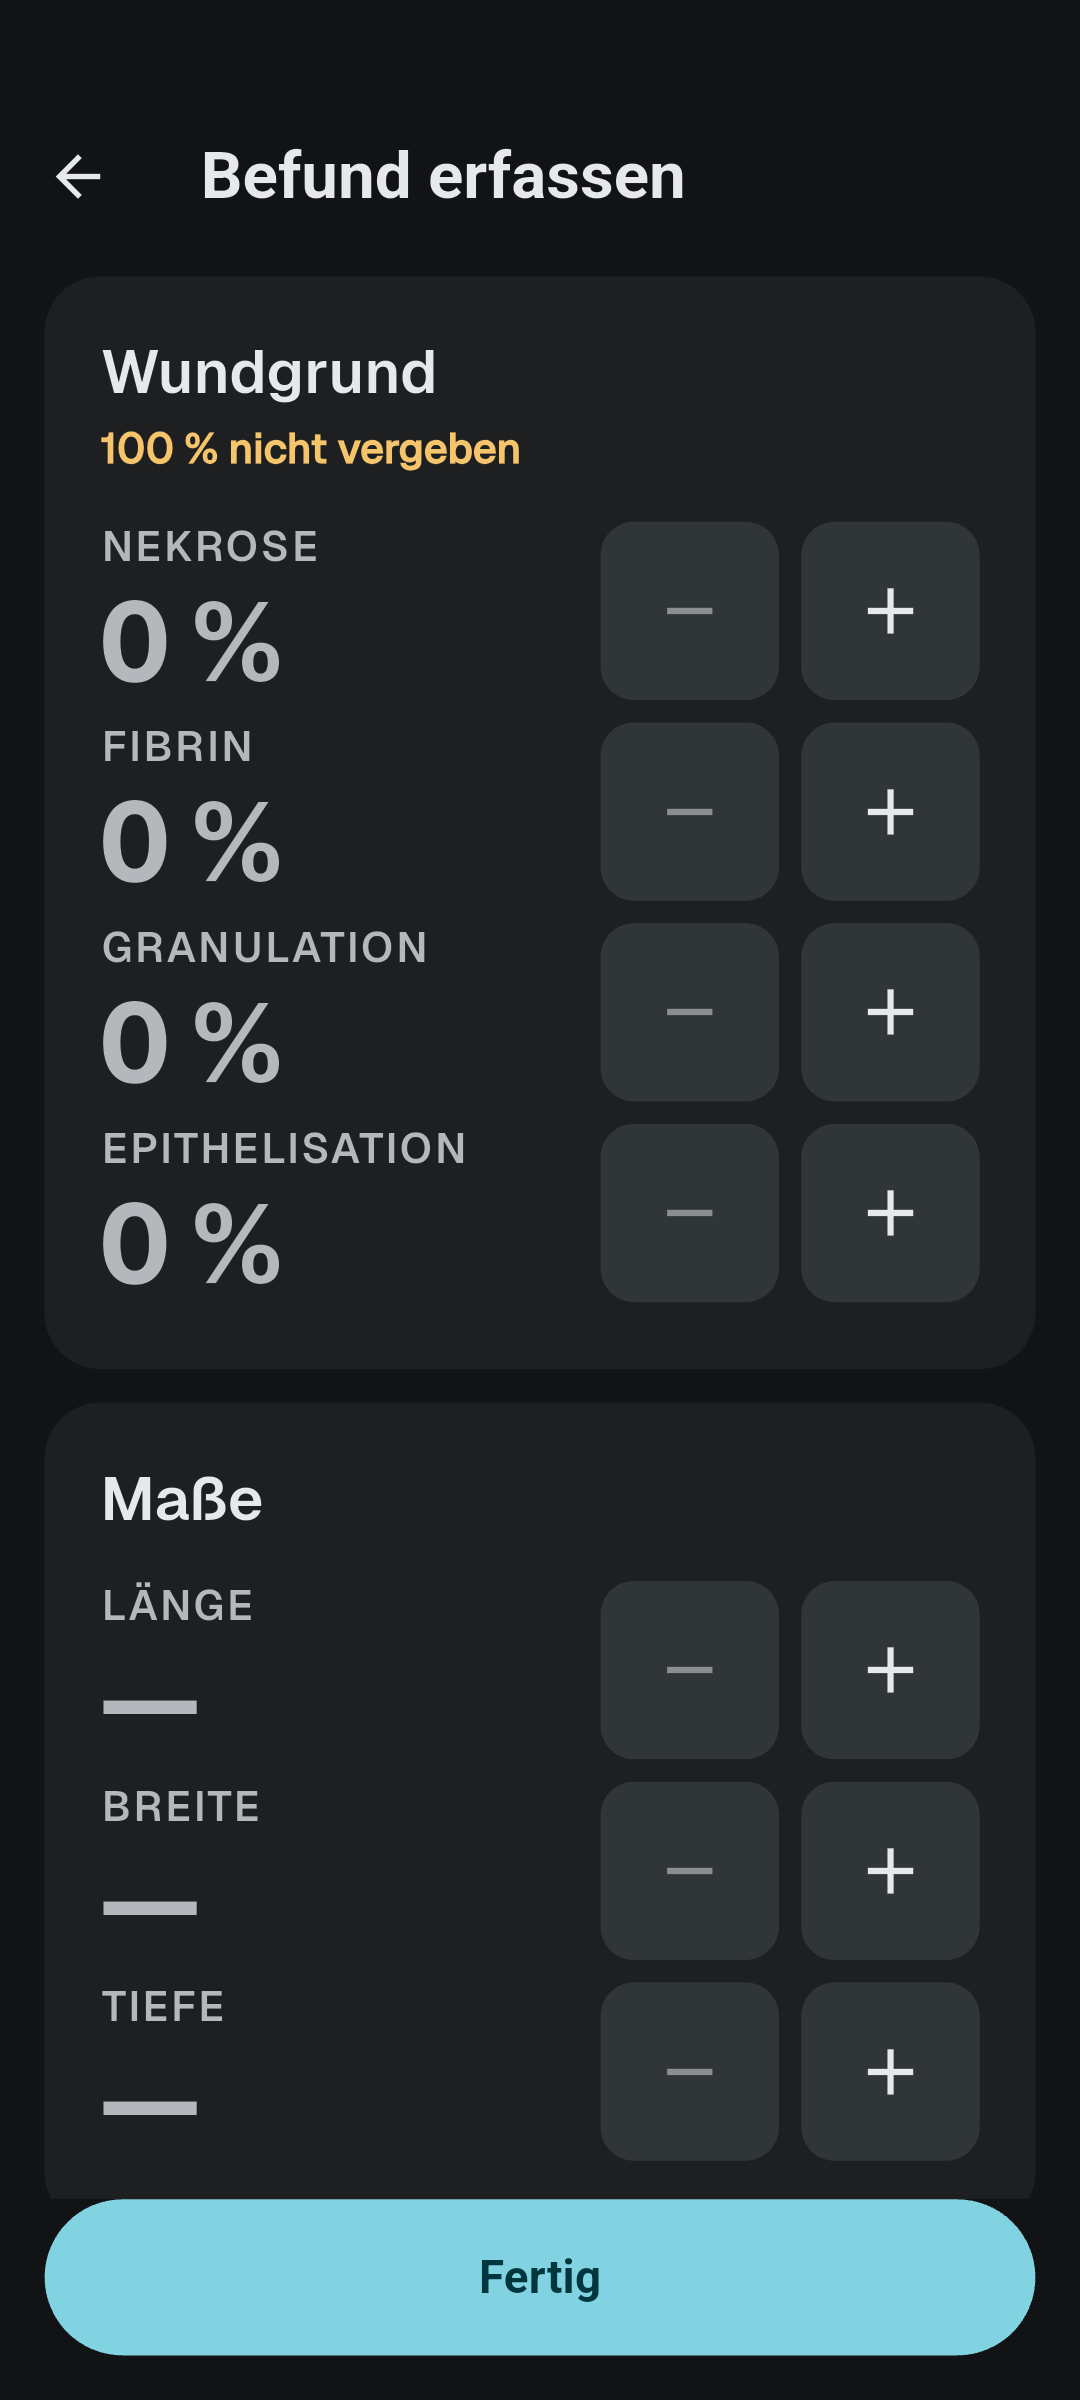
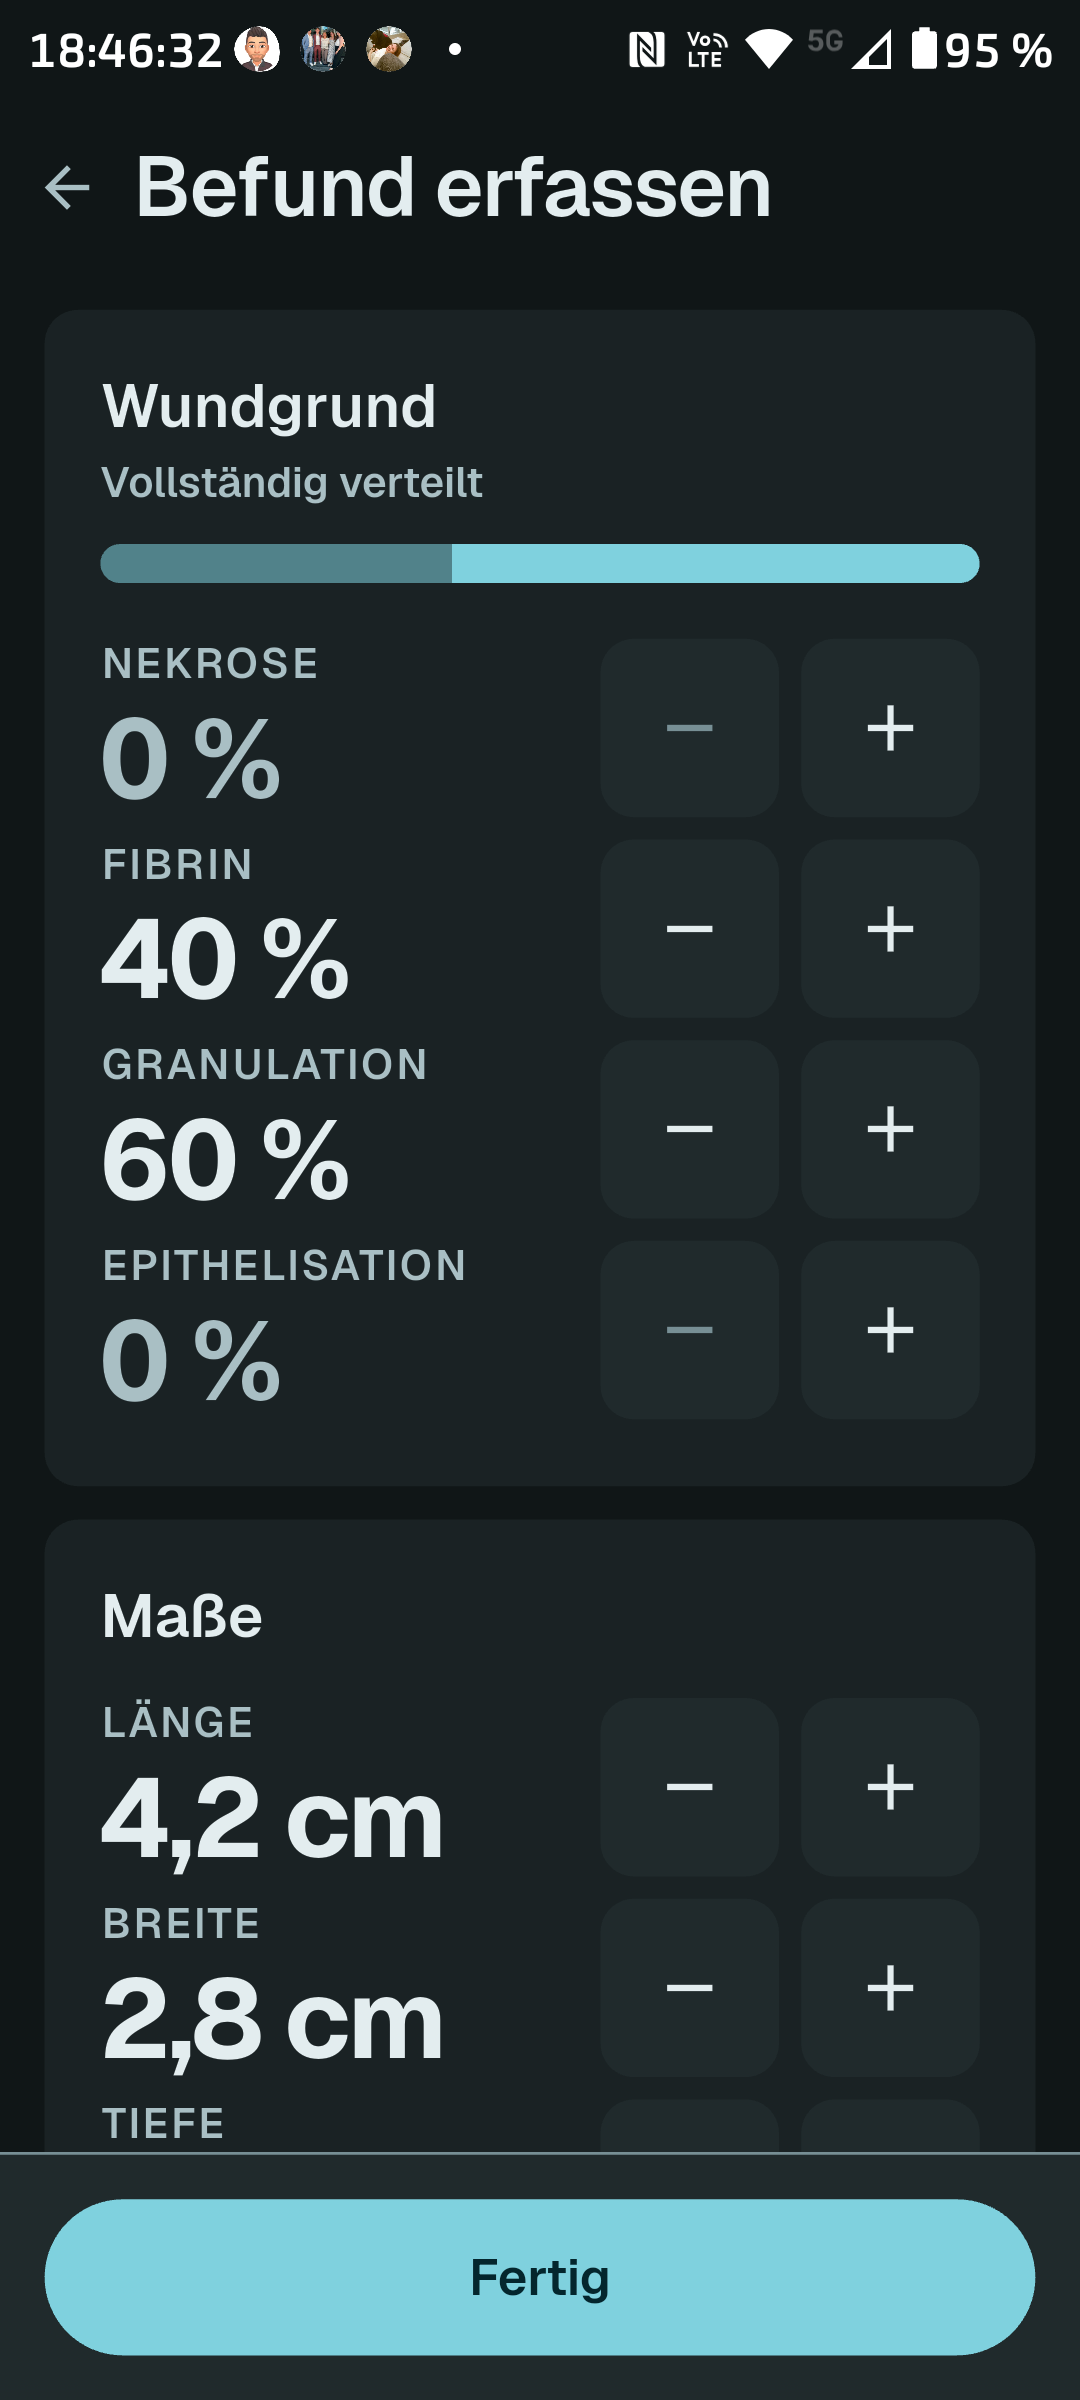
docs: the design pass through the draft is closed

diff --git a/PROGRESS.md b/PROGRESS.md
@@ -41,9 +41,12 @@ die alle drei Tests und Analyzer passiert hatten (siehe unten).
 
 ## Nächste drei Schritte
 
-1. Rest des Entwurfs: 1f Karten, 1g Foto, 1h Markierung. Auf 1g/1h fehlt das
-   Besuchsband (`VisitStep.photo`), und ihre Goldens laufen als einzige noch
-   auf 800×600 statt in Telefonmaß.
+1. Der Entwurfsdurchgang ist zu (1a–1j). Als Nächstes die offenen Punkte, die
+   dabei stehengeblieben sind — der Reihe nach: aus einem verworfenen Vorschlag
+   direkt in die Karte dieses Feldes springen (1e), Detailansicht eines Besuchs
+   aus dem Verlauf, Rückmeldung während der Berichterzeugung, und der
+   mitlaufende Zwischenstand während der Aufnahme („Bisher verstanden", braucht
+   eine Runde `/eps:technikwahl` für einen Erkenner mit Strom).
 2. `/eps:abgabe` vorbereiten
 3. Offene Fragen an den Auftraggeber bündeln (siehe unten) — die Wortliste der
    Pflegekräfte ist davon die wertvollste
@@ -104,6 +107,40 @@ der Besuch stammt vom Vortag, nicht von heute. Stand 8 Werte, 2 Fotos mit
 Markierung, 2 fehlen. Der Leerraum zwischen Beispielsätzen und Daumenzone ist
 auf etwa eine Zeilenhöhe geschrumpft; vorher war er das größte Element auf dem
 Bildschirm.
+
+## Erledigt (Karten, Foto, Markierung — Entwurfsdurchgang zu, 2026-08-13)
+
+**1f Karten.** Die vier Gewebeanteile bekommen einen Balken über den Zeilen: die
+Regel ist, dass sie 100 % ergeben, und ein Satz darüber ist eine Regel, während
+der Balken die Sache selbst ist — was fehlt, ist der leere Teil davon.
+Übervergabe, die dieser Screen beim Umverteilen absichtlich zulässt, skaliert
+gegen die Summe, statt den letzten Anteil hinten abzuschneiden. **Ein Akzent in
+zwei Stärken**, nicht vier Farben: das sind Teile eines Ganzen, keine vier
+Kategorien mit eigener Identität. Titel in den Body, Fertig-Leiste mit Kante,
+Kartenradius 20 → 12.
+
+**Nicht übernommen:** Die Maße sind im Entwurf drei Instrumentenkacheln ohne
+Weg, den Wert zu ändern. Die Stepper bleiben — diesen Screen gibt es, weil am
+Bett keine Tastatur steht, und eine Zahl, die man nicht ändern kann, ist ein
+Etikett.
+
+**1g Foto und 1h Markierung.** Beide trugen einen Titel in einer AppBar und
+sonst nichts; jetzt tragen sie das Band mit gefülltem Foto-Schritt. Damit hört
+die Antwort auf „wo bin ich" nicht ausgerechnet auf den zwei Screens auf, auf
+denen die Pflegekraft am weitesten von der Akte weg ist.
+
+**Damit laufen alle Goldens in Telefonmaß.** Foto und Markierung waren die
+letzten auf 800×600 — breiter als ein Tablet im Hochformat, ausgerechnet für
+zwei Screens, deren ganzes Layout ein Bild im Rest des Platzes ist.
+
+### Stolperstein
+
+**Eine `ColoredBox` ohne Kind fällt auf null zusammen.** Sie nimmt die kleinste
+erlaubte Größe an, und eine `Row` reicht ihren Kindern lose Querachsen-
+Constraints. Der Verteilungsbalken lag damit korrekt im Baum, hatte die richtige
+Größe im Layout (318×14) — und malte nichts. Sichtbar nur im Golden, nicht im
+Widget-Test: `find.byType(ColoredBox)` fand ihn ja.
+Gegenmittel: `crossAxisAlignment: CrossAxisAlignment.stretch`.
 
 ## Erledigt (Abschluss und Verlauf gegen den Entwurf, 2026-08-13)
 
